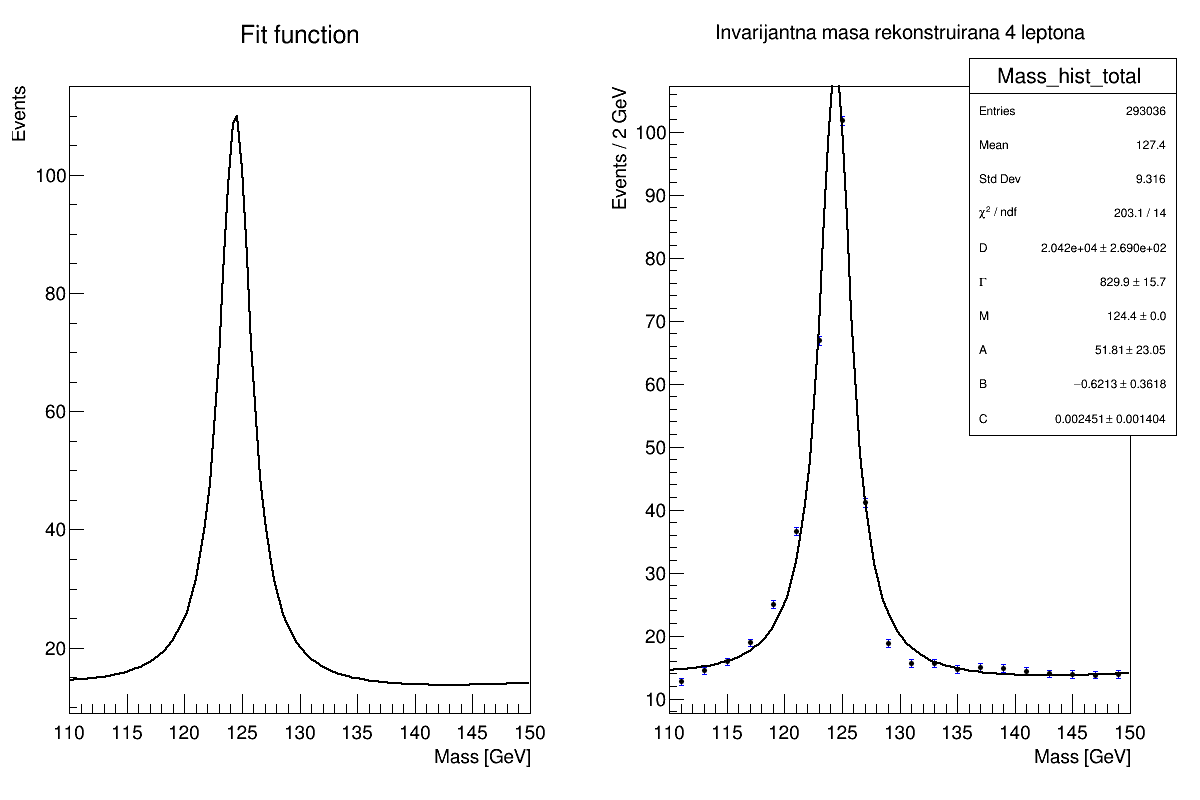
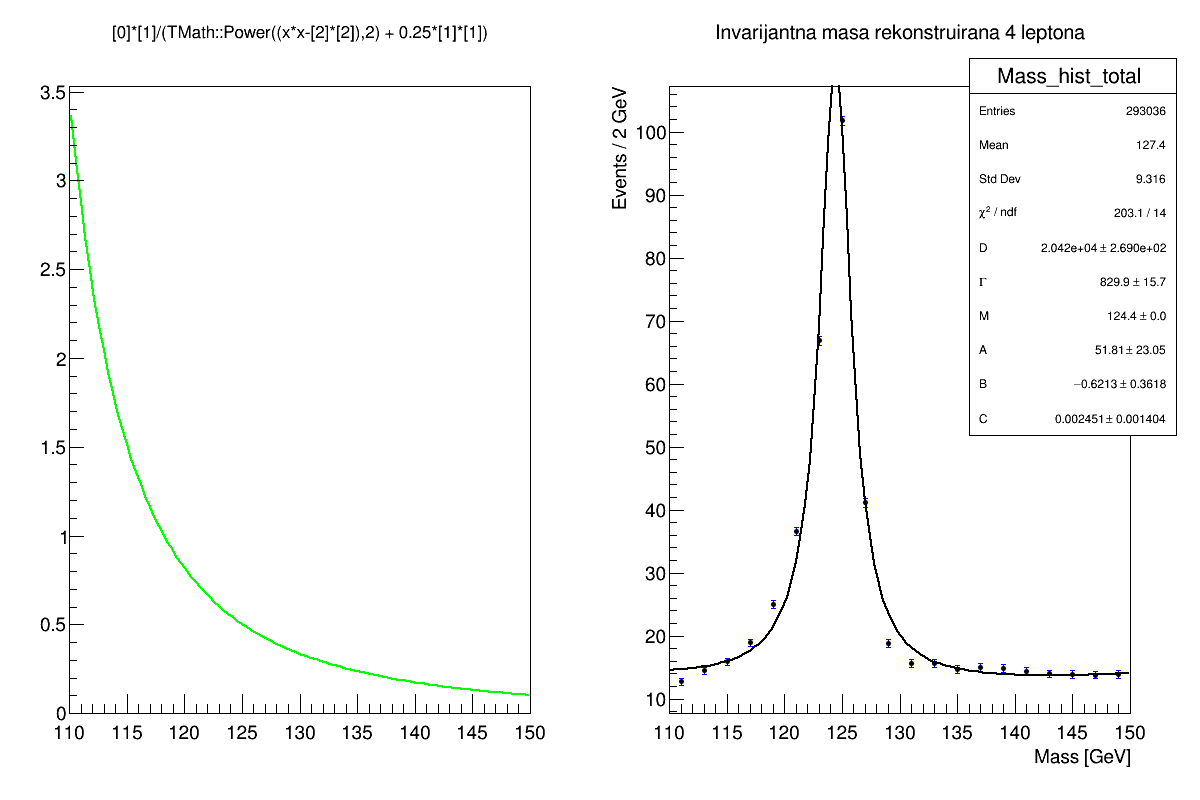
Vjezba8

diff --git a/Vjezbe_8/Analyzer.cpp b/Vjezbe_8/Analyzer.cpp
@@ -453,7 +453,7 @@ void Analyzer::FitHiggs(){
 	
 	canvas -> cd (1);
 	total -> Draw ();
-	BW -> Draw ("SAME");
+	BW -> Draw (/*"SAME"*/);
 	Q -> Draw ("SAME");
 	
 	canvas -> cd (2);
